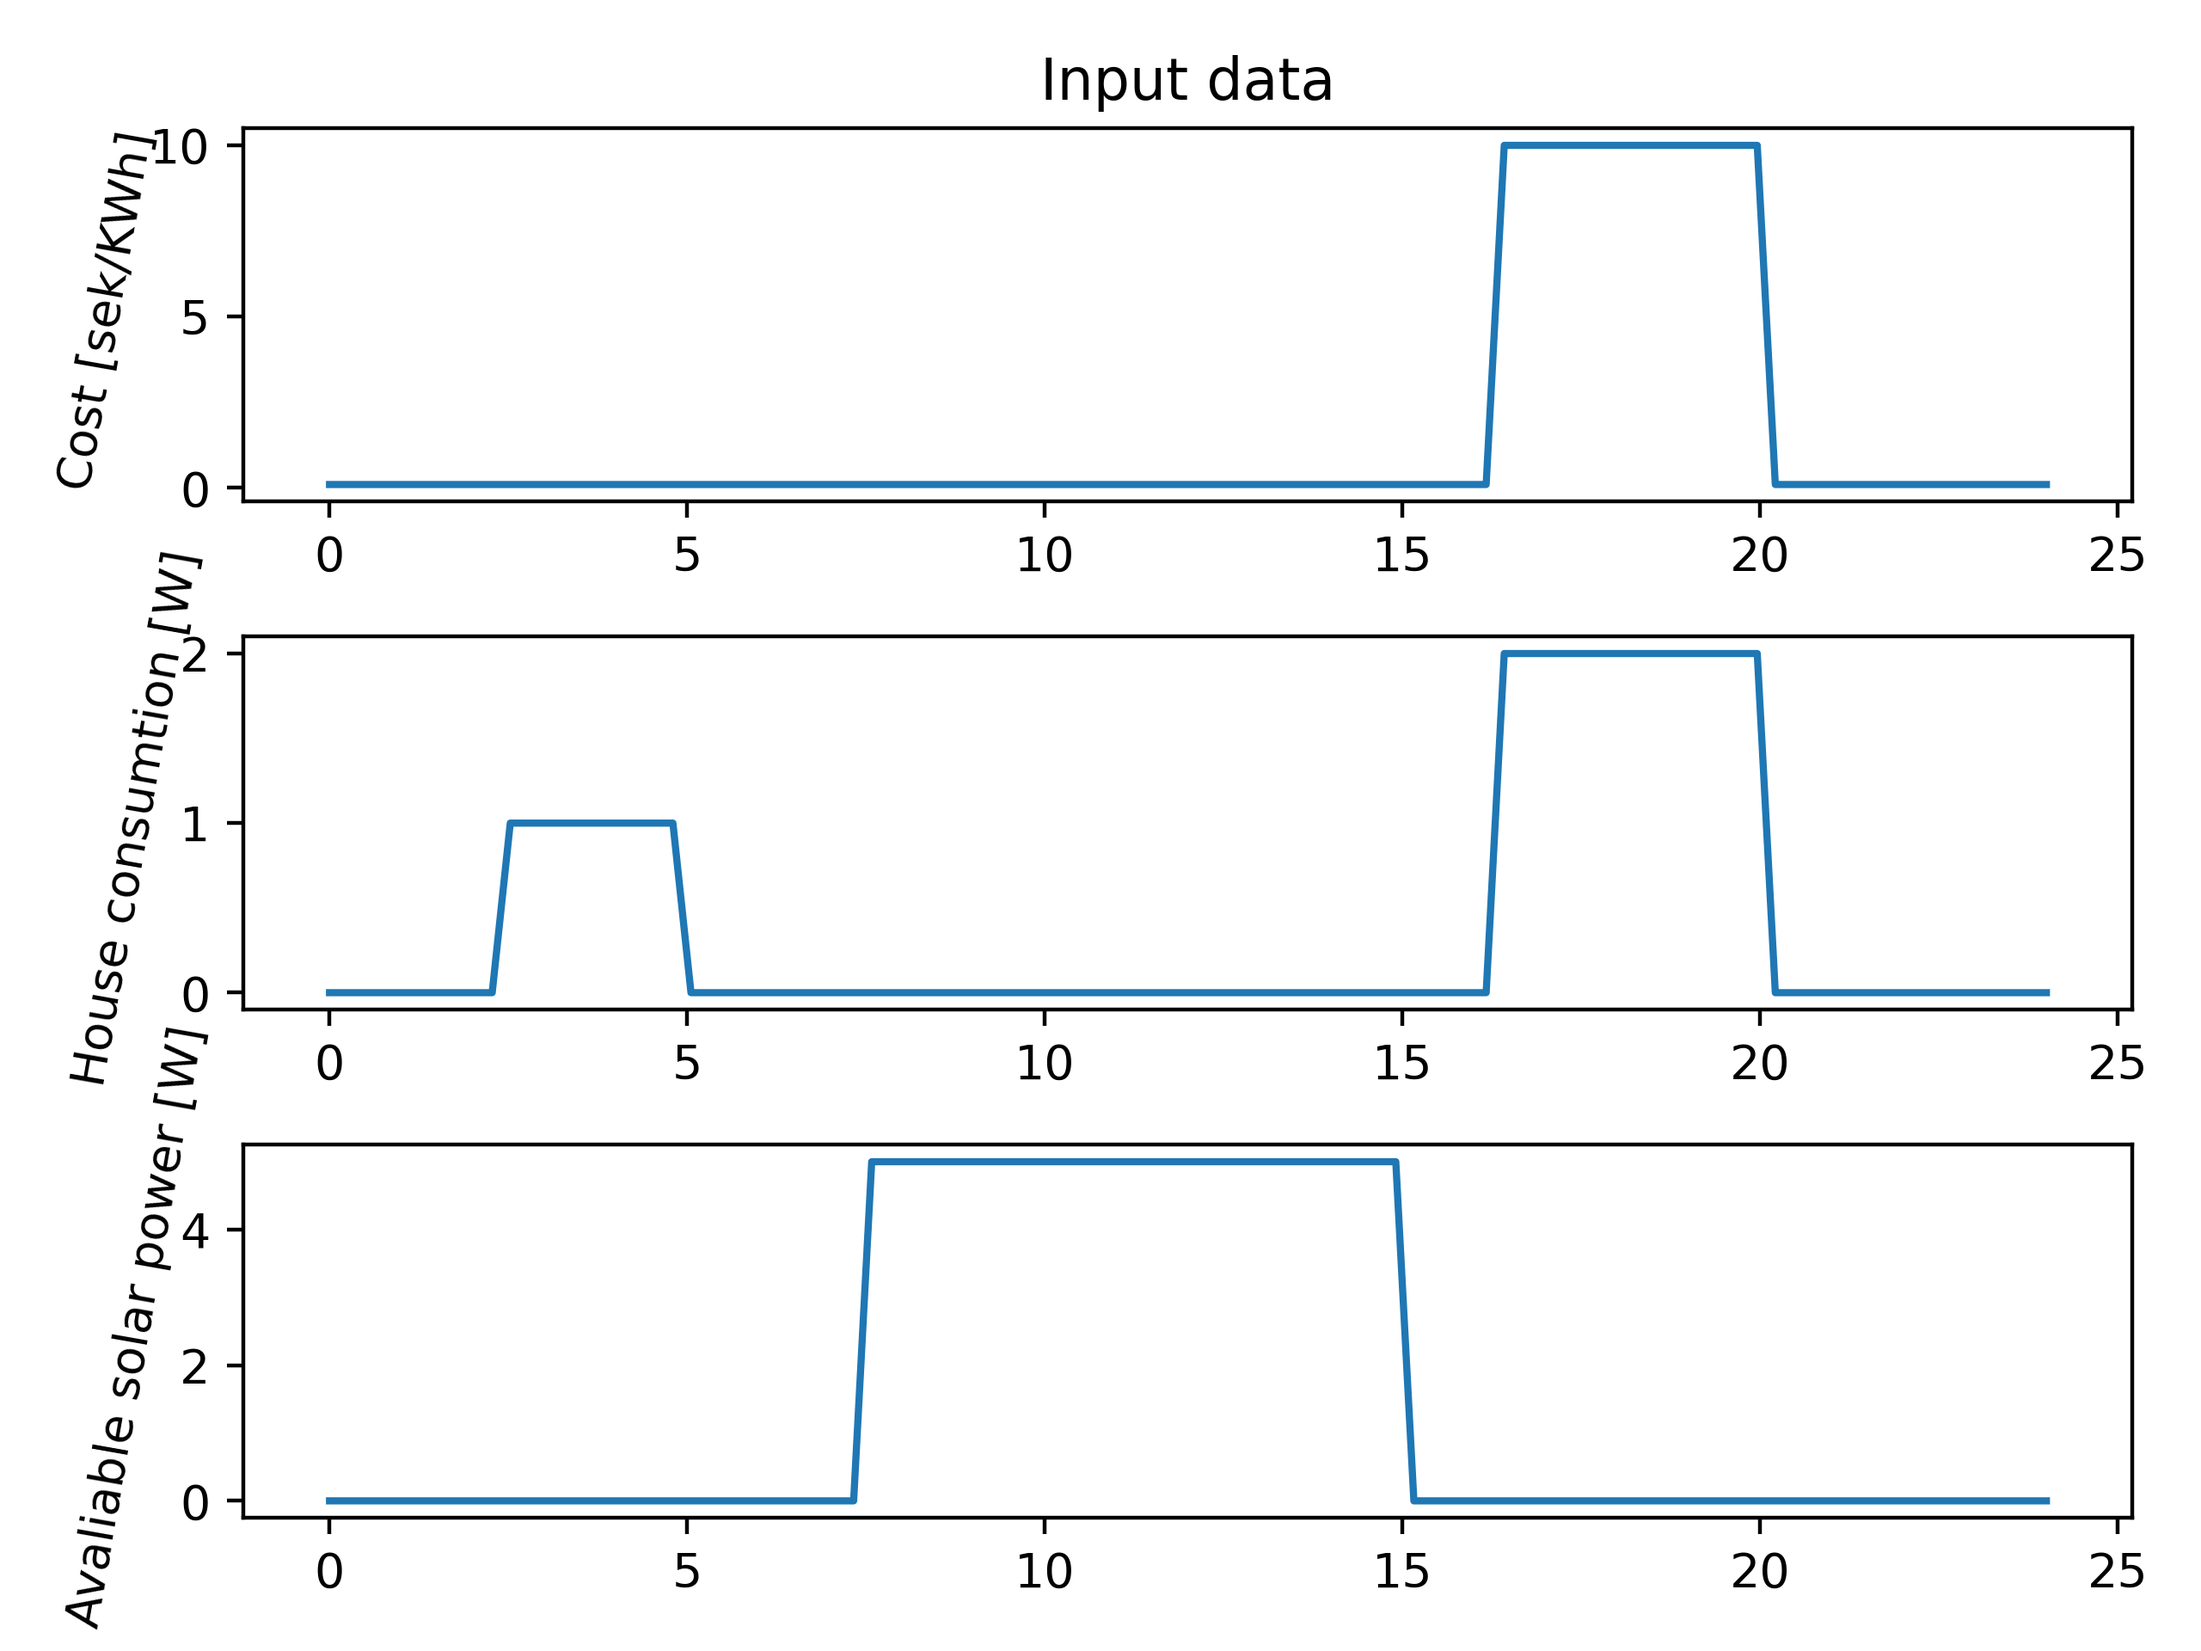
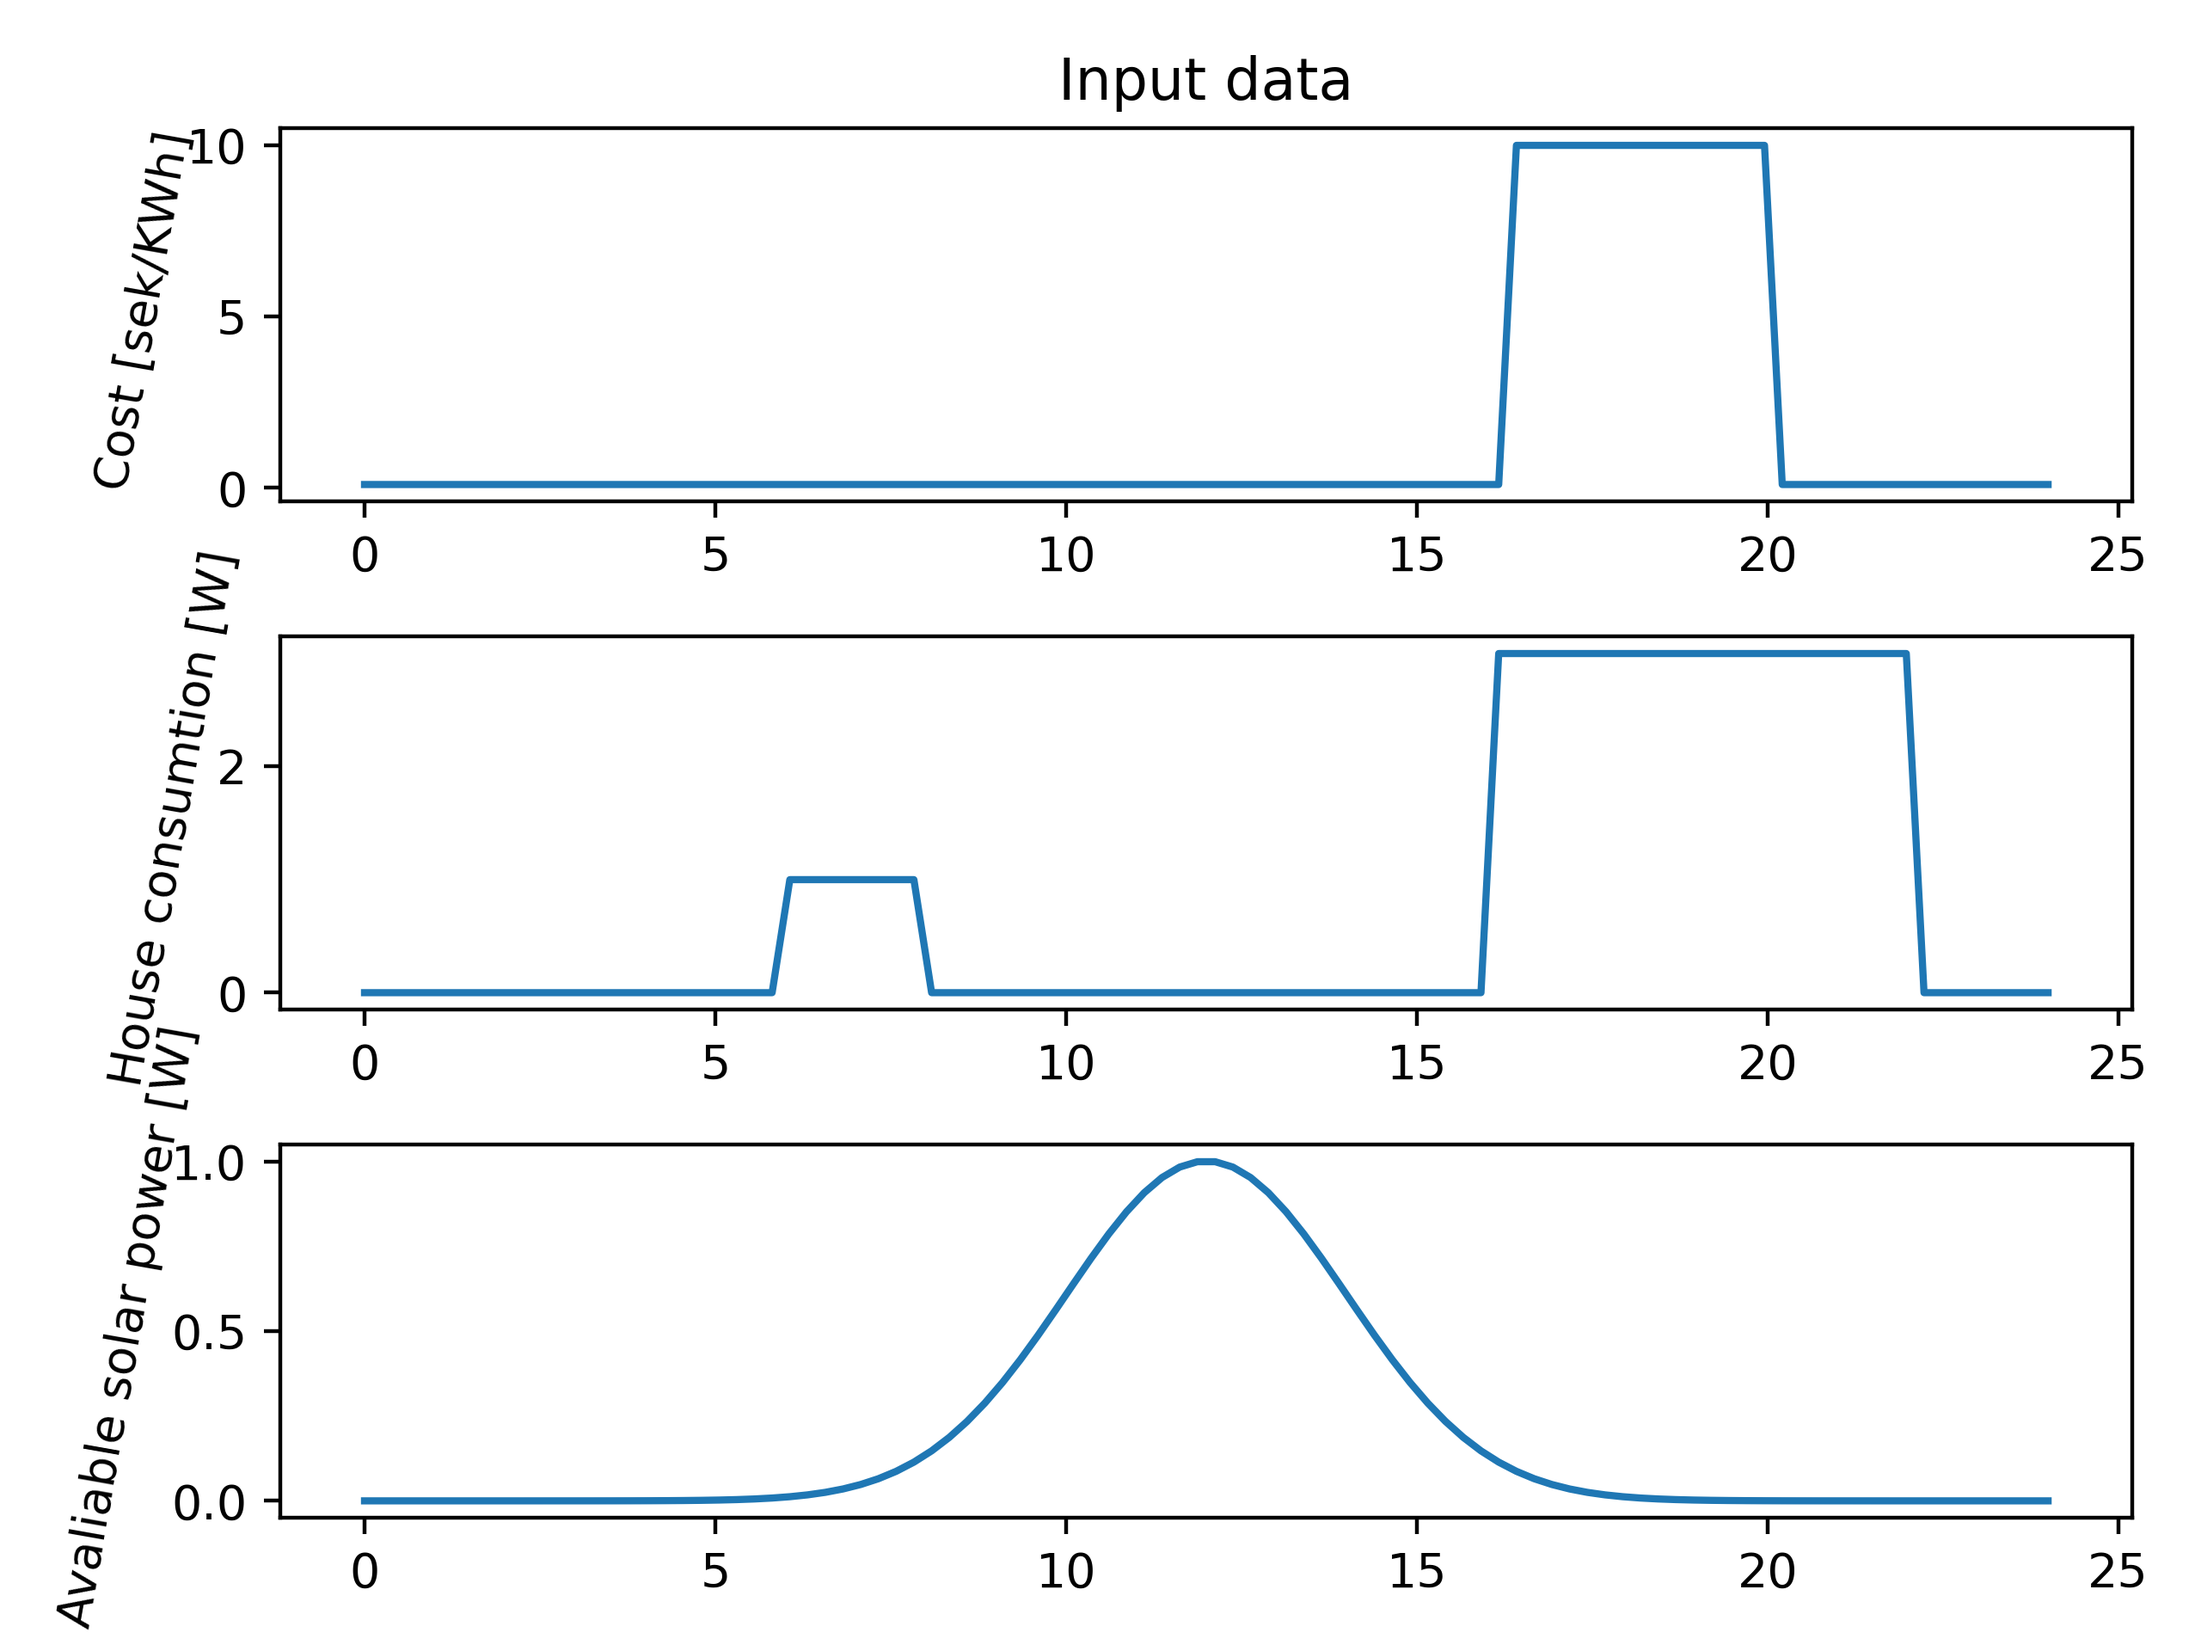
More realistic data + fixed export optimization

diff --git a/solar_panel_battery_opt.py b/solar_panel_battery_opt.py
@@ -15,21 +15,29 @@ class BatterySetup:
 
 def main():
 
-    battery = BatterySetup(10,10,1)
+    battery = BatterySetup(4,4,10) #10-30 KWh
     N = int(24*4)
     dt = 15*60
     t = np.linspace(0,24,N)
     elec_cost = np.ones(N)*0.1
     elec_cost[65:80] = 10
+    #elec_cost[0:10] = 10000
+
     avaliable_solar = np.zeros(N)
-    avaliable_solar[30:60] = 5
-    export_price_precentage = 0.1
+    #avaliable_solar[30:60] = 1
+    solar_sigma = 2
+    solar_mu = 12
+    solar_peak = 1
+    avaliable_solar = np.exp(-1/2*((solar_mu-t)/solar_sigma)**2)
+    avaliable_solar = avaliable_solar * 1/np.max(avaliable_solar)
+    avaliable_solar *= solar_peak
+
+    export_price_precentage = 0.7
 
     #house_consum = np.sin(-t*2*np.pi/24) + 1
     house_consum = np.zeros(N)
-    house_consum[10:20] = 1
-    house_consum[65:80] = 2
-
+    house_consum[6*4:8*4] = 1
+    house_consum[16*4:22*4] = 3
 
     WB,WE,QB = opt_battery_strat(elec_cost,house_consum,avaliable_solar,dt,battery,export_price_precentage)
 
@@ -80,6 +88,11 @@ def plot_res(elec_cost,house_consum,avaliable_solar,dt:float,battery:BatterySetu
 
     
 
+def sigmoid(x):
+    # 0 for x < 0
+    # 1 for x > 0
+
+    return 1/(1 + casadi.exp(-x*20))
 
 
 
@@ -117,7 +130,9 @@ def opt_battery_strat(elec_cost,house_consum,avaliable_solar,dt:float,battery:Ba
         abs_70_devi = opti.variable()
         opti.subject_to(qb_70_devi <= abs_70_devi)
         opti.subject_to(qb_70_devi >= -1*abs_70_devi)
-        cost += abs_70_devi*1e-6
+        #cost += abs_70_devi*1e-9
+        cost += casadi.atan(abs_70_devi)*1e-7
+
         
 
         # Battery dunamic equation
@@ -149,15 +164,12 @@ def opt_battery_strat(elec_cost,house_consum,avaliable_solar,dt:float,battery:Ba
 
         # Add upp elec cost
 
-        J_consume = opti.variable()
-        opti.subject_to(J_consume>=we_i)
-        opti.subject_to(J_consume>0)
 
-        J_export = opti.variable()
-        opti.subject_to(J_export<=we_i)
-        opti.subject_to(J_export<=0)
+        J_consume = sigmoid(we_i)*dt_watt_h*elec_cost[i]*we_i
 
-        cost += J_consume*dt_watt_h*elec_cost[i] - export_price_precentage*J_export*dt_watt_h*elec_cost[i]
+        J_export = sigmoid(-1*we_i)*dt_watt_h*elec_cost[i]*export_price_precentage*we_i
+
+        cost += J_consume + J_export
 
     opti.solver('ipopt')
     opti.minimize(cost)
